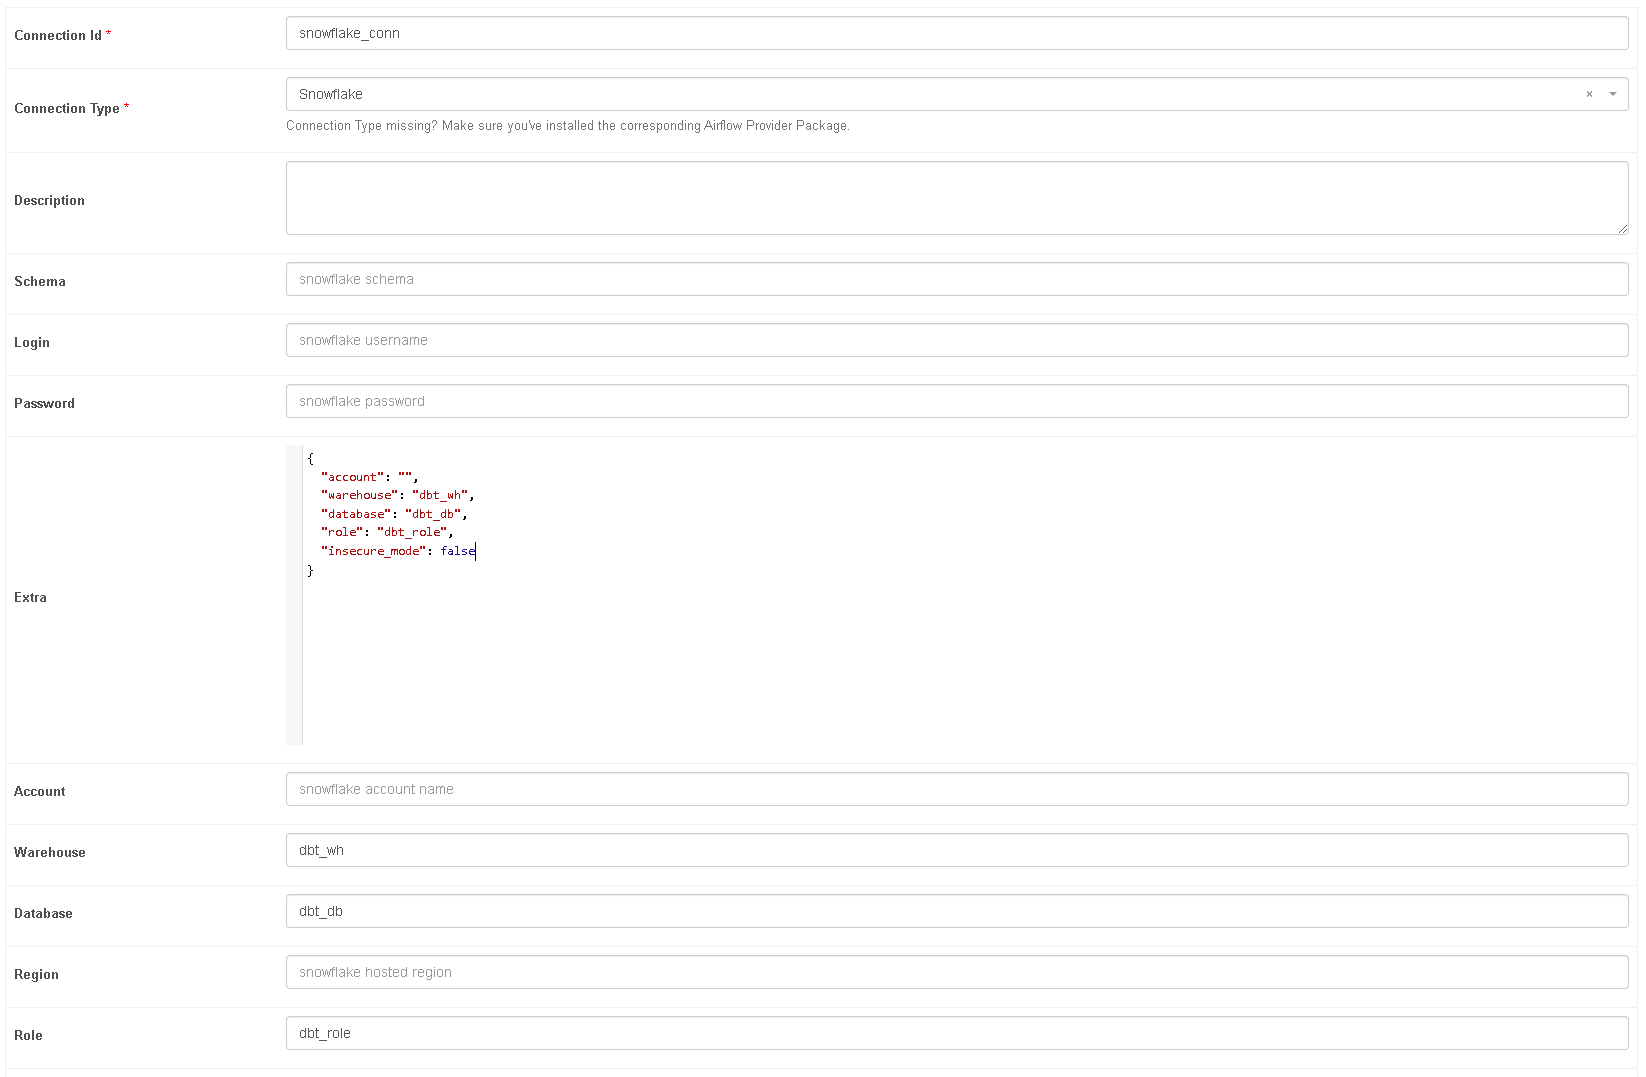
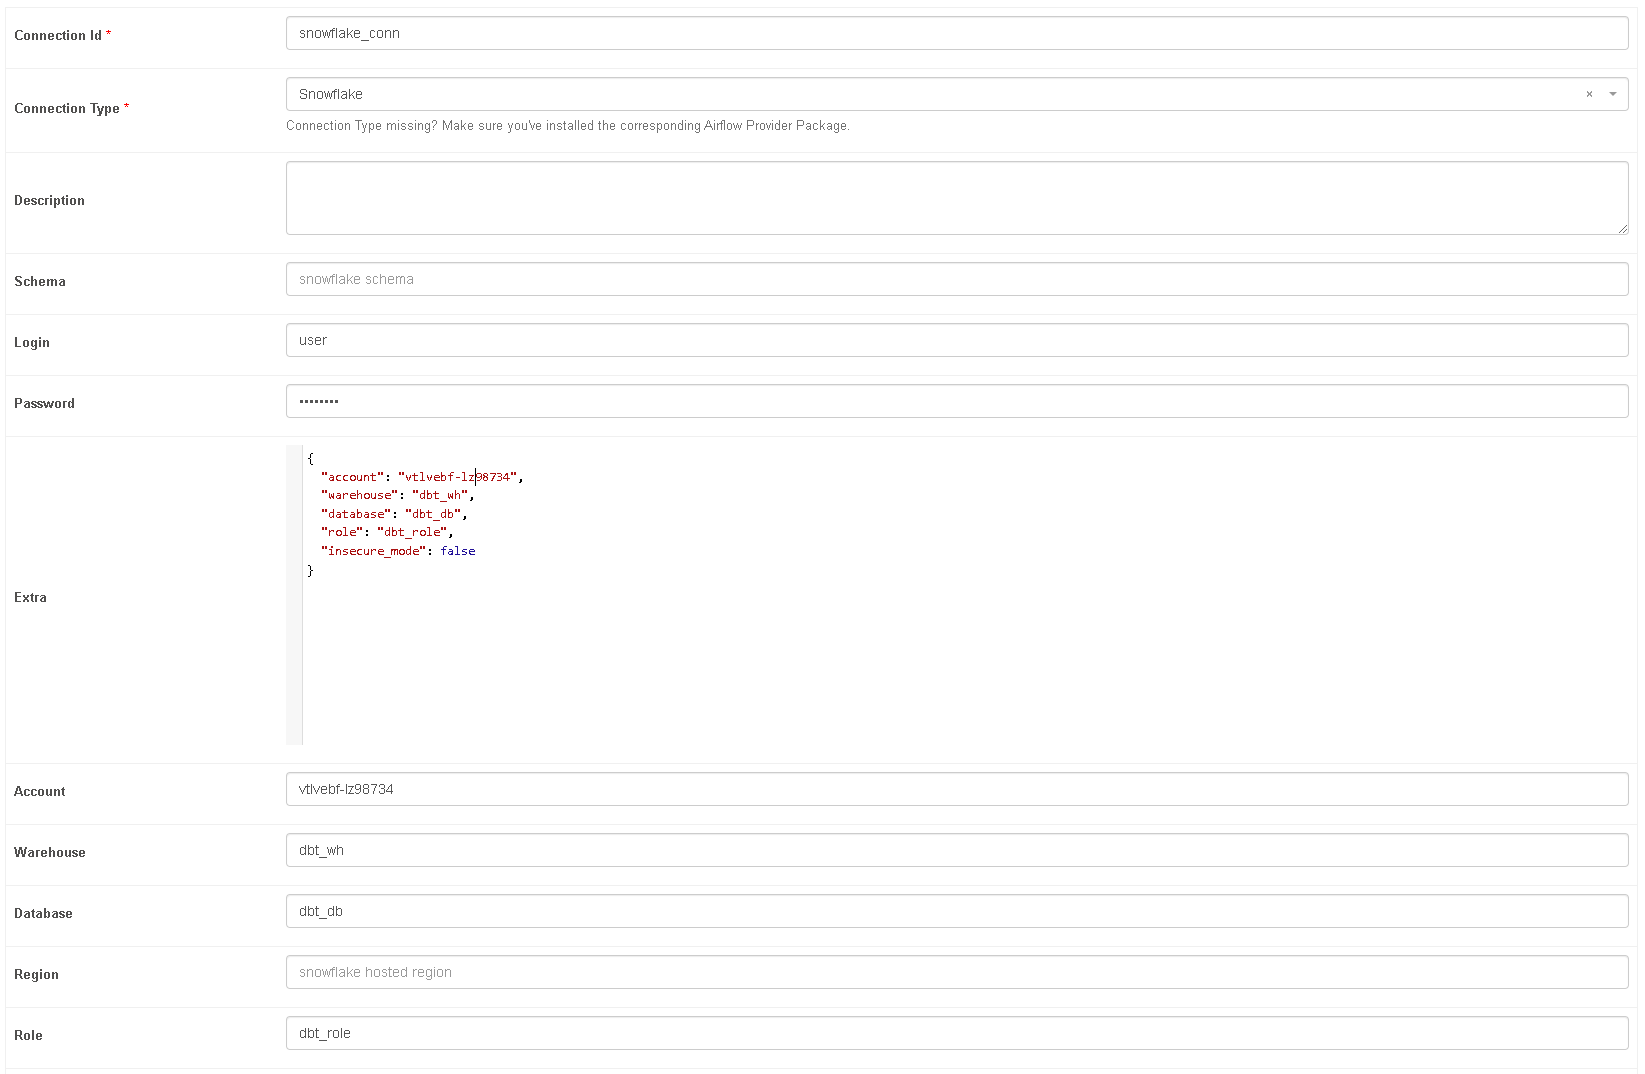
Updated README.md

diff --git a/README.md b/README.md
@@ -352,7 +352,7 @@ Now open the Airflow webserver at http://localhost:8080/. After logging in, we s
 
 __Before we start the DAG, configure the snowflake connection first by going to Admin > Connections. Click + to add a new connection:__
 ![Add snowflake connection](res/snowflake_conn.png?raw=true)
-Make sure to fill up the Snowflake Login, Password, and Account. Account can be found in your Snowflake accounts dashboard (https://\<this_value>.snowflakecomputing.com)
+Make sure to fill up the your own Snowflake Login, Password, and Account. Account can be found in your Snowflake accounts dashboard (https://\<this_value>.snowflakecomputing.com)
 
 After setting the connection. We should now be able to run the `dbt_dag` DAG.
 ![dbt_dag successful run](res/dbt_dag_success.png?raw=true)
